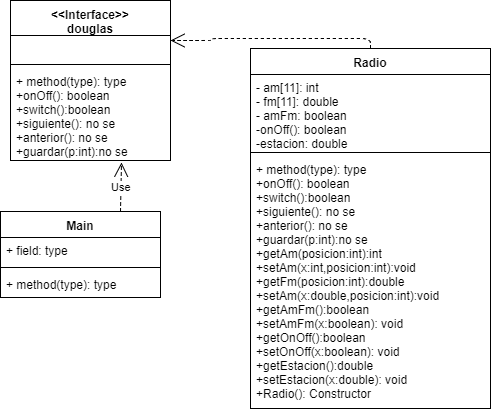
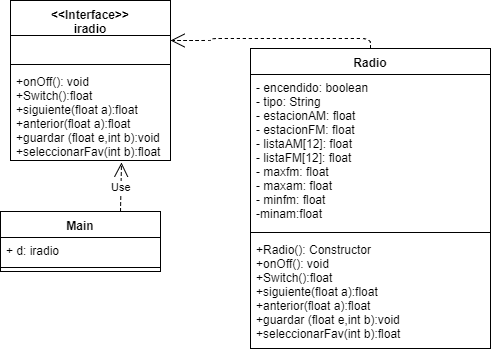
correccion de UML

Changed region(s): [[0.0305, 0.0, 1.0, 1.0], [0.0, 0.1562, 0.336, 0.7812]]

diff --git a/HT1Estructuras/test/RadioTest.java b/HT1Estructuras/test/RadioTest.java
@@ -20,7 +20,7 @@ public class RadioTest
     @org.junit.Test
     public void testSiguiente()
     {
-        douglas x=new Radio();
+        iradio x=new Radio();
         
         float resultado=x.siguiente((float) 87.9);
         float esperado=(float) 88.1;
@@ -32,7 +32,7 @@ public class RadioTest
     @org.junit.Test
     public void testAnterior()
     {
-        douglas x=new Radio();
+        iradio x=new Radio();
         
         float resultado=x.anterior((float) 87.9);
         float esperado=(float) 107.9;
@@ -44,7 +44,7 @@ public class RadioTest
     @org.junit.Test
     public void testGuardarYseleccionarFav()
     {
-        douglas x=new Radio();
+        iradio x=new Radio();
         
         x.guardar((float) 87.9,2);
         float resultado=x.seleccionarFav(2);

diff --git a/HT1Estructuras/src/iradio.java b/HT1Estructuras/src/iradio.java
@@ -1,4 +1,3 @@
-
 /**
  *
  * @author Luis Delgado
@@ -7,9 +6,8 @@
  * 
  */
 
-public interface douglas 
+public interface iradio 
 {
-    
     /**
      * Metodo para saber si el radio esta encendido o apagado
      * @return encendido regresa si esta encendido o apagado el radio 
@@ -51,5 +49,6 @@ public interface douglas
      */
     public float seleccionarFav(int b);
    
+    
     
 }

diff --git a/HT1Estructuras/src/Radio.java b/HT1Estructuras/src/Radio.java
@@ -8,7 +8,7 @@ import java.text.DecimalFormat;
  * @version 18.01.2018
  * 
  */
-public class Radio implements douglas
+public class Radio implements iradio
 {
     private boolean encendido;
     private String tipo;

diff --git a/HT1Estructuras/src/main.java b/HT1Estructuras/src/main.java
@@ -22,7 +22,7 @@ public class main extends javax.swing.JFrame {
     /**
      * Creates new form main
      */
-    private douglas d;
+    private iradio d;
     
     public main() {
         d = new Radio();
